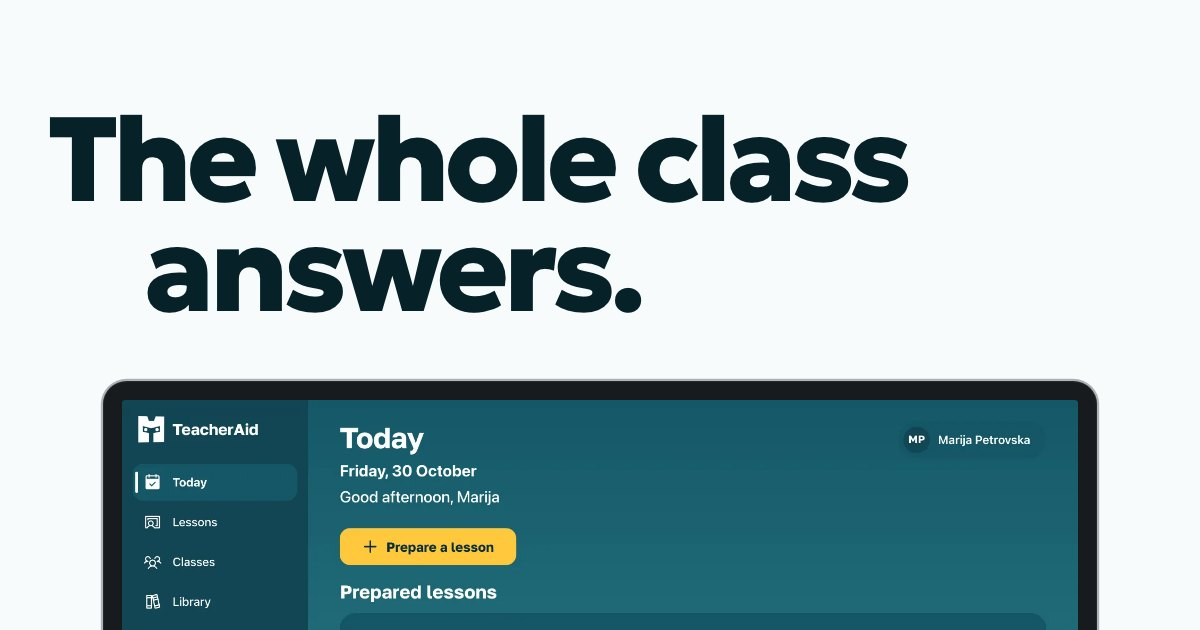
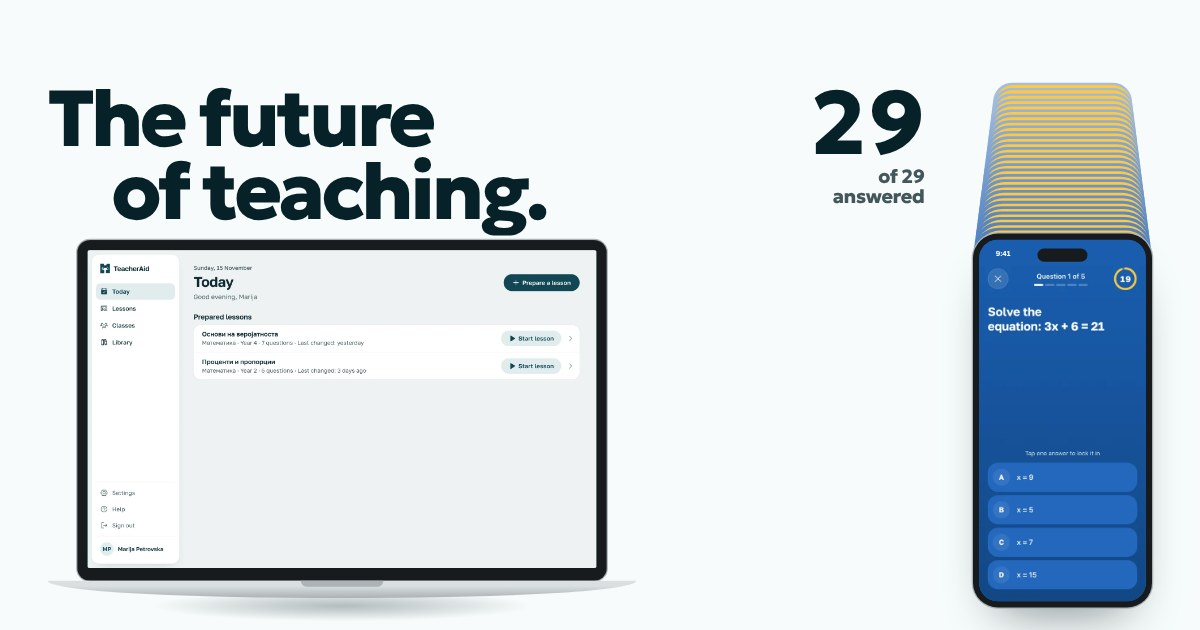
Website: the slogan is now "Иднината на наставата"
The founders chose the brand's slogan on 2026-11-25: "Иднината на наставата", in English
"The future of teaching". It replaces "Целиот клас одговара" as the home page's headline in
both languages, in the site manifest, and in the share pictures, which are now taken from the
pinned hero scene (the old ones also showed a teacher screen that no longer exists). The
organisation in the structured data carries the slogan in the page's language.

Claude-Session: https://claude.ai/code/session_01PojaZ47R6a2QCdUGpJhCQD

diff --git a/components/site-v2/Document.tsx b/components/site-v2/Document.tsx
@@ -70,8 +70,8 @@ export function SiteV2Document({ lang, children }: { lang: "mk" | "en"; children
   home page of their language (app/(mk)/opengraph-image.jpg, app/(en)/en/opengraph-image.jpg).
 */
 const shareImage: Record<ArticleDict["lang"], { url: string; alt: string }> = {
-  mk: { url: "/og/teacheraid-mk.jpg", alt: "TeacherAid: „Целиот клас одговара.“ над лаптоп со апликацијата за наставникот." },
-  en: { url: "/og/teacheraid-en.jpg", alt: 'TeacherAid: "The whole class answers." over a laptop with the teacher app.' },
+  mk: { url: "/og/teacheraid-mk.jpg", alt: "TeacherAid: „Иднината на наставата.“ над лаптоп со апликацијата за наставникот и телефон на ученик." },
+  en: { url: "/og/teacheraid-en.jpg", alt: "TeacherAid: \"The future of teaching.\" over a laptop with the teacher app and a student's phone." },
 };
 
 /** A reading page's metadata: its own title, description, canonical and language pair. */

diff --git a/lib/site-v2/schema.ts b/lib/site-v2/schema.ts
@@ -62,6 +62,9 @@ export function pageSchema(input: PageSchemaInput) {
           ? "Тим од Битола што прави апликација за часот за средни училишта и факултети во Македонија."
           : "A team from Bitola making a classroom app for secondary schools and universities in North Macedonia.",
       address: { "@type": "PostalAddress", addressLocality: "Bitola", addressCountry: "MK" },
+      // The brand's slogan, chosen by the founders on 2026-11-25. Macedonian is the brand's
+      // language; the English pages carry its translation.
+      slogan: lang === "mk" ? "Иднината на наставата" : "The future of teaching",
       areaServed: { "@type": "Country", name: "North Macedonia" },
       knowsLanguage: ["mk", "en"],
     },

diff --git a/content/site-v2/mk.ts b/content/site-v2/mk.ts
@@ -25,7 +25,7 @@ export const mk: SiteV2Dict = {
   },
   hero: {
     kicker: "За наставници и директори",
-    title: ["Целиот клас", "одговара."],
+    title: ["Иднината", "на наставата."],
     deck: "TeacherAid од вашата лекција прави прашања за часот. Ги испраќате од лаптопот, учениците одговараат на своите телефони, а вие веднаш гледате кој разбрал.",
     deckShort: "Прашања од вашата лекција. Одговори од секој телефон.",
     teacher: "Јас сум наставник",

diff --git a/tests/unit/site-seo.test.ts b/tests/unit/site-seo.test.ts
@@ -57,6 +57,10 @@ describe("structured data", () => {
     expect(types).toEqual(["Organization", "WebSite", "WebApplication", "WebPage", "BreadcrumbList"]);
   });
 
+  it("gives the organisation its slogan in the page's language", () => {
+    expect(schema["@graph"][0].slogan).toBe("Иднината на наставата");
+  });
+
   it("uses no type Google has retired", () => {
     const text = JSON.stringify(schema);
     for (const retired of ["FAQPage", "HowTo", "SpeakableSpecification"]) expect(text).not.toContain(retired);

diff --git a/content/site-v2/en.ts b/content/site-v2/en.ts
@@ -25,7 +25,7 @@ export const en: SiteV2Dict = {
   },
   hero: {
     kicker: "For teachers and school directors",
-    title: ["The whole class", "answers."],
+    title: ["The future", "of teaching."],
     deck: "TeacherAid turns your lesson into questions for class. You send them from your laptop, students answer on their phones, and you see at once who understood.",
     deckShort: "Questions from your lesson. Answers from every phone.",
     teacher: "I'm a teacher",

diff --git a/app/manifest.ts b/app/manifest.ts
@@ -4,7 +4,7 @@ export default function manifest(): MetadataRoute.Manifest {
   return {
     name: "TeacherAid",
     short_name: "TeacherAid",
-    description: "Целиот клас одговара.",
+    description: "Иднината на наставата.",
     lang: "mk",
     start_url: "/",
     scope: "/",

diff --git a/docs/site-v2/DESIGN.md b/docs/site-v2/DESIGN.md
@@ -155,7 +155,7 @@ the hero). Refresh them whenever an app changes:
 
 | Act | Scene | Theme |
 |---|---|---|
-| Hook | Hero: the whole class answers. Pinned for two screens: the text clears, the headline becomes the caption, the laptop settles on the desk, the student's phone moves to the front of a stack of the class's 28 other phones beside it, and their edges light yellow front to back as the count reaches 29 | Paper |
+| Hook | Hero: the slogan, "Иднината на наставата." (2026-11-25; before, "Целиот клас одговара."). Pinned for two screens: the text clears, the headline becomes the caption, the laptop settles on the desk, the student's phone moves to the front of a stack of the class's 28 other phones beside it, and their edges light yellow front to back as the count reaches 29 | Paper |
 | Build | Teacher chapter opener: ready before the bell | Morph to teal |
 | Build | Prepare: plays once on arrival. The file and the line of emphasis land, the AI writes, the questions appear, one tap on Harder rewrites them | Teal |
 | Climax | In class: pinned for three screens. Students join (0 to 27), Send is pressed, the question flies from the laptop to the board, answers and the timer count, the bars fill, the right answer is revealed. One caption per beat | Teal |
